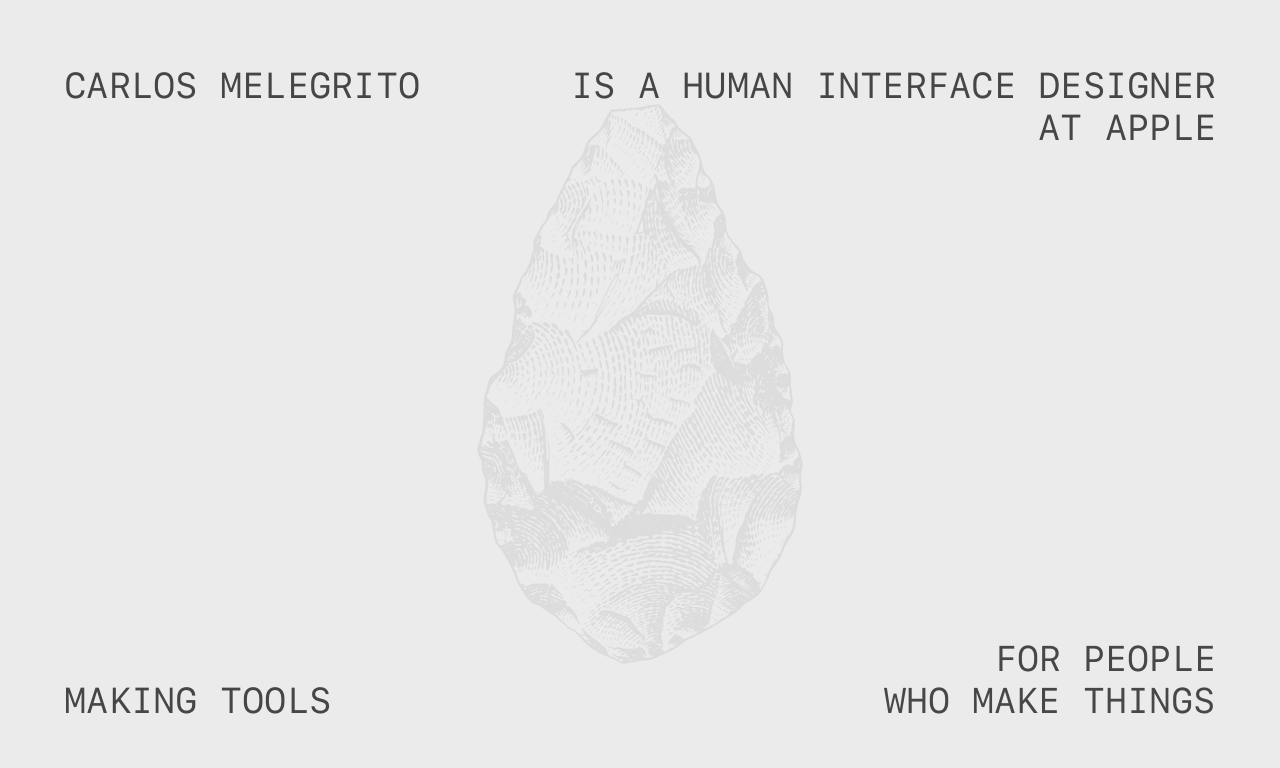
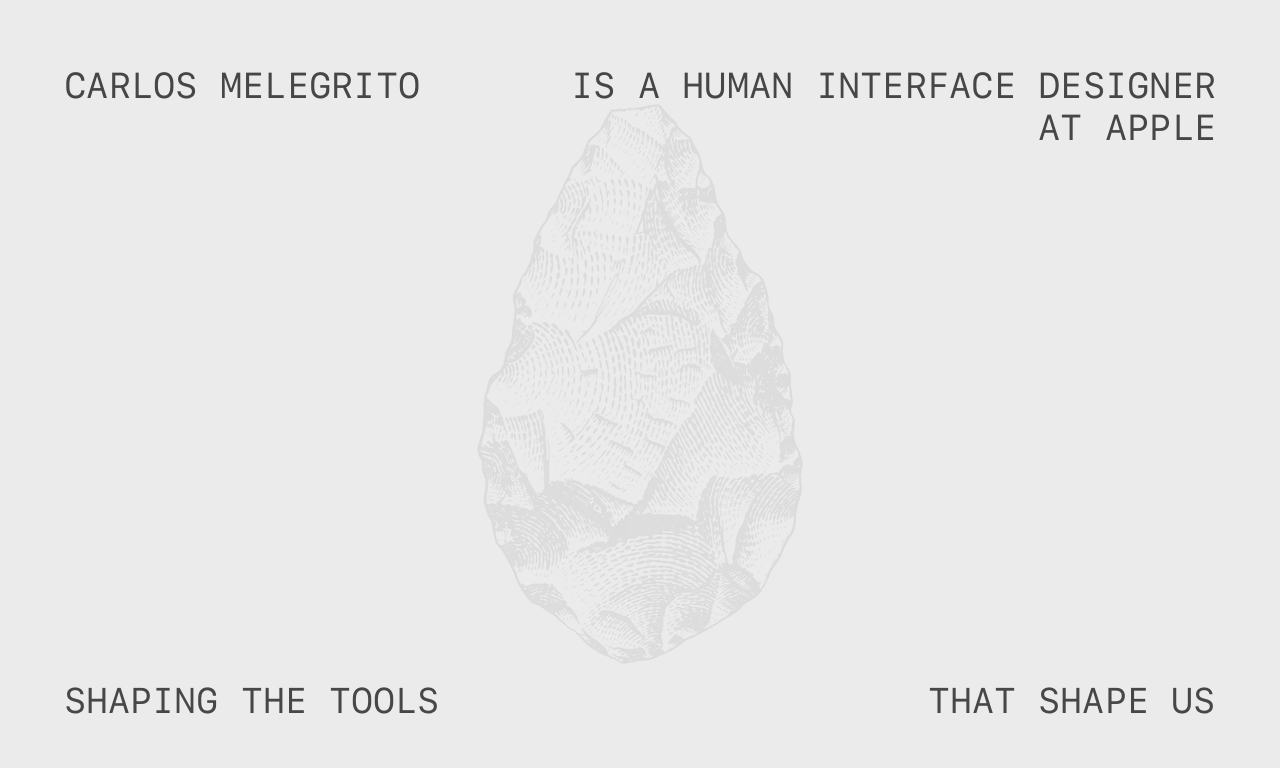
Tagline: shaping the tools that shape us
Claude-Session: https://claude.ai/code/session_01Xjqk5DMofq3DoXacXbPKPa

Changed region(s): [[0.6875, 0.8438, 0.9688, 0.9375], [0.0312, 0.875, 0.3438, 0.9375]]

diff --git a/index.html b/index.html
@@ -4,11 +4,11 @@
   <meta charset="UTF-8" />
   <meta name="viewport" content="width=device-width, initial-scale=1.0" />
   <title>Carlos Melegrito</title>
-  <meta name="description" content="Carlos Melegrito is a human interface designer at Apple, making tools for people who make things." />
+  <meta name="description" content="Carlos Melegrito is a human interface designer at Apple, shaping the tools that shape us." />
   <meta name="author" content="Carlos Melegrito" />
   <meta name="keywords" content="Carlos Melegrito, human interface designer, Apple, software design, user experience, UX, UI" />
   <meta property="og:title" content="Carlos Melegrito" />
-  <meta property="og:description" content="Carlos Melegrito is a human interface designer at Apple, making tools for people who make things." />
+  <meta property="og:description" content="Carlos Melegrito is a human interface designer at Apple, shaping the tools that shape us." />
   <meta property="og:type" content="website" />
   <meta property="og:url" content="https://carlos-m.com" />
   <meta property="og:image" content="https://carlos-m.com/preview.png" />
@@ -21,7 +21,7 @@
   <!-- Screen-reader / no-JS fallback: the real message in reading order -->
   <p class="sr-only">
     Carlos Melegrito is a human interface designer at Apple,
-    making tools for people who make things.
+    shaping the tools that shape us.
   </p>
   <script src="script.js"></script>
 </body>

diff --git a/script.js b/script.js
@@ -14,9 +14,8 @@
   const BLOCKS = [
     { lines: ["CARLOS MELEGRITO"], anchor: true },      // the name — pinned top-left
     { lines: ["IS A HUMAN INTERFACE DESIGNER", "AT APPLE"] },
-    { lines: ["MAKING TOOLS"] },
-    { lines: ["FOR PEOPLE"] },
-    { lines: ["WHO MAKE THINGS"] },
+    { lines: ["SHAPING THE TOOLS"] },
+    { lines: ["THAT SHAPE US"] },
   ];
 
   /* Characters the noise field cycles through. */
